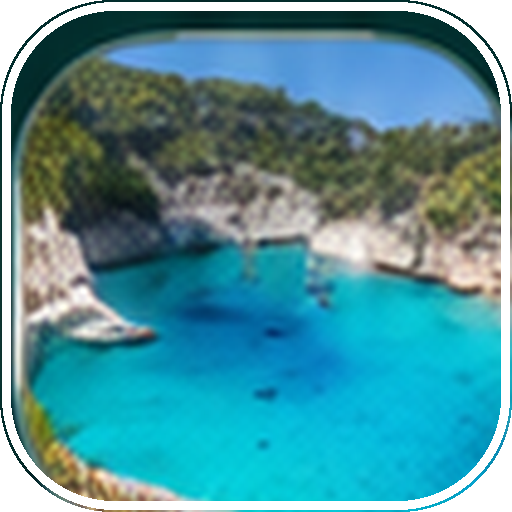
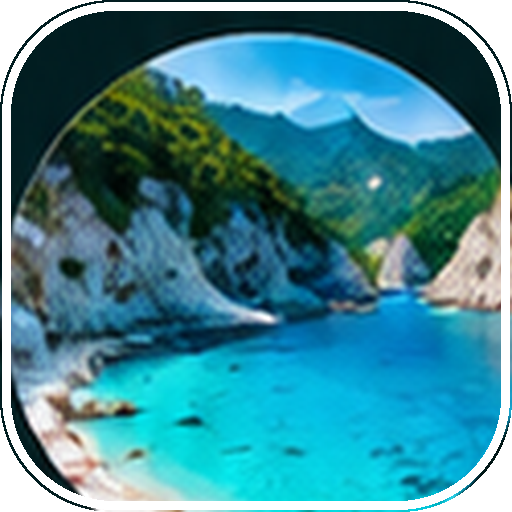
Add files via upload

diff --git a/app.js b/app.js
@@ -1,22 +1,64 @@
 
 const $=id=>document.getElementById(id);
 const BASE={lat:40.6096,lon:9.7514,label:"La Caletta"};
-let state={mode:"balanced",origin:BASE,originType:"base",wind:"Mare calmo",autoWind:"Mare calmo",weatherIcon:"🌤️",weatherLabel:"Meteo",temp:null,windKmh:null,driveMax:120,walkMax:20,sort:"ai",query:"",quietOnly:false,localOnly:false,withinDriveOnly:true,favoritesOnly:false,hideVisited:false};
+let state={mode:"balanced",origin:BASE,originType:"base",wind:"Mare calmo",autoWind:"Mare calmo",weatherIcon:"🌤️",weatherLabel:"Meteo",weatherCode:null,temp:null,windKmh:null,driveMax:120,walkMax:20,sort:"ai",query:"",quietOnly:false,localOnly:false,meteoAiOnly:false,withinDriveOnly:true,favoritesOnly:false,hideVisited:false};
 let marine={wave:null,water:null};
 const icon={"Snorkeling elite":"🤿","Snorkeling PRO":"🐠","Calette nascoste":"🏝️","Spiagge top":"🏖️","Panorami/foto":"📸","Escursioni/gommoni":"🚤","Cibo/pesce":"🍝","Parcheggi/accessi":"🅿️","Spiagge famose":"⭐","Spiagge famose Nord":"💎","Spiagge famose Sud":"🌅","Iconiche Golfo Orosei":"🌊","Spiagge Sardegna Nord-Ovest":"🧭","Spiagge Sardegna Nord":"🧭","Spiagge Sardegna Ovest":"🌊","Spiagge Sardegna Sud-Ovest":"🌅","Spiagge Sardegna Sud":"🌞","Spiagge Sardegna Sud-Est":"🌞","Spiagge Sardegna Est":"🌊"};
 const mapsIcon='<svg class="mapicon" viewBox="0 0 24 24"><path fill="#34a853" d="M12 2C8.1 2 5 5.1 5 9c0 5.2 7 13 7 13s7-7.8 7-13c0-3.9-3.1-7-7-7z"/><circle fill="#fff" cx="12" cy="9" r="2.5"/></svg>';
 const wazeIcon='<svg class="mapicon" viewBox="0 0 24 24"><path fill="#33ccff" d="M20 11.5c0-4.1-3.6-7.5-8-7.5s-8 3.4-8 7.5c0 1.5.5 2.9 1.4 4.1L3 18h3.6c1.4.7 3.2 1 5.4 1 4.4 0 8-3.4 8-7.5z"/><circle cx="9" cy="11" r="1"/><circle cx="15" cy="11" r="1"/><path d="M9 15c2 1 4 1 6 0" stroke="#111" fill="none" stroke-width="1.5"/></svg>';
-function loadLocal(){try{const s=JSON.parse(localStorage.getItem("sardegna-v10")||"{}");PLACES.forEach(p=>{if(s.favorites?.[p.id])p.favorite=true;if(s.visited?.[p.id])p.visited=true;if(s.notes?.[p.id])p.personalNote=s.notes[p.id]})}catch(e){}}
-function saveLocal(){const favorites={},visited={},notes={};PLACES.forEach(p=>{if(p.favorite)favorites[p.id]=true;if(p.visited)visited[p.id]=true;if(p.personalNote)notes[p.id]=p.personalNote});localStorage.setItem("sardegna-v10",JSON.stringify({favorites,visited,notes}))}
+function loadLocal(){try{const s=JSON.parse(localStorage.getItem("sardegna-v17")||localStorage.getItem("sardegna-v16")||localStorage.getItem("sardegna-v10")||"{}");PLACES.forEach(p=>{if(s.favorites?.[p.id])p.favorite=true;if(s.visited?.[p.id])p.visited=true;if(s.notes?.[p.id])p.personalNote=s.notes[p.id]})}catch(e){}}
+function saveLocal(){const favorites={},visited={},notes={};PLACES.forEach(p=>{if(p.favorite)favorites[p.id]=true;if(p.visited)visited[p.id]=true;if(p.personalNote)notes[p.id]=p.personalNote});localStorage.setItem("sardegna-v17",JSON.stringify({favorites,visited,notes}))}
 function hav(a,b,c,d){const R=6371,rad=x=>x*Math.PI/180;const dp=rad(c-a),dl=rad(d-b);const q=Math.sin(dp/2)**2+Math.cos(rad(a))*Math.cos(rad(c))*Math.sin(dl/2)**2;return R*2*Math.atan2(Math.sqrt(q),Math.sqrt(1-q))}
 function dist(p){return hav(state.origin.lat,state.origin.lon,p.lat,p.lon)}
 function drive(p){return Math.round((dist(p)*1.38/62)*60+8)}
 function seaScore(p){let s=10;if(marine.wave!=null){if(marine.wave>1.2)s-=3;else if(marine.wave>.7)s-=1.5}if((p.windAvoid||"").includes(state.wind))s-=2;if((p.windOK||"").includes(state.wind))s+=.8;return Math.max(0,Math.min(10,Math.round(s*10)/10))}
 function textScore(p,q){if(!q)return 0;q=q.toLowerCase();const hay=`${p.name} ${p.zone} ${p.category} ${p.fauna} ${p.notes} ${(p.tags||[]).join(" ")}`.toLowerCase();let s=0;q.split(/\s+/).filter(Boolean).forEach(w=>{if(hay.includes(w))s+=8;if(p.name.toLowerCase().includes(w))s+=16});if(q.includes("liberotto")&&p.name.toLowerCase().includes("liberotto"))s+=60;if(q.includes("polp")&&hay.includes("polp"))s+=20;if(q.includes("tramonto")&&hay.includes("tramonto"))s+=16;return s}
+function meteoAiScore(p){
+  let s=0;
+  // tempo stabile/sole: meglio; pioggia/temporale: peggio
+  const code=state.weatherCode;
+  if(code===0)s+=16;
+  else if([1,2].includes(code))s+=12;
+  else if(code===3)s+=5;
+  else if([45,48].includes(code))s-=3;
+  else if([51,53,55,56,57,61,63,65,66,67,80,81,82].includes(code))s-=18;
+  else if([95,96,99].includes(code))s-=30;
+
+  // poco vento meglio per mare calmo/snorkeling
+  const wind=state.windKmh;
+  if(wind!=null){
+    if(wind<=8)s+=14;
+    else if(wind<=15)s+=8;
+    else if(wind<=22)s-=4;
+    else s-=14;
+  }
+
+  // onde basse meglio
+  if(marine.wave!=null){
+    if(marine.wave<=0.3)s+=12;
+    else if(marine.wave<=0.7)s+=6;
+    else if(marine.wave<=1.2)s-=6;
+    else s-=18;
+  }
+
+  // esposizione vento del singolo posto
+  if((p.windOK||"").includes(state.wind))s+=8;
+  if((p.windAvoid||"").includes(state.wind))s-=18;
+
+  return s;
+}
+function meteoAiLabel(p){
+  const s=meteoAiScore(p);
+  if(s>=32)return "☀️ Meteo top";
+  if(s>=18)return "🌤️ Meteo buono";
+  if(s>=5)return "⛅ Meteo ok";
+  if(s>=-8)return "🌬️ Da valutare";
+  return "⚠️ Meteo scarso";
+}
 function isLocal(p){return p.level==="L1 Local" || String(p.tags||"").includes("local") || String(p.tags||"").includes("segreta") || String(p.category||"").toLowerCase().includes("nascost");}
-function score(p){let s=p.wow*1.6+p.waterColor*.7+p.snorkeling*.7+seaScore(p)*1.2+textScore(p,state.query);if(state.mode==="wow")s+=p.wow*1.8+p.waterColor*1.4;if(state.mode==="snorkel")s+=p.snorkeling*2.4+(String(p.tags||"").includes("snorkeling")?8:0);if(state.mode==="balanced")s+=p.wow+p.snorkeling*.8-(drive(p)/20)-(p.walkMin/8);if((p.windOK||"").includes(state.wind))s+=6;if((p.windAvoid||"").includes(state.wind))s-=12;s+=(drive(p)<=state.driveMax)?8:-(drive(p)-state.driveMax)/2;s+=(p.walkMin<=state.walkMax)?6:-8;if(state.quietOnly)s+=(p.crowdTarget==="Tranquillo"?10:-4);if(state.localOnly&&!isLocal(p))s-=1000;if(state.withinDriveOnly&&drive(p)>state.driveMax)s-=1000;if(state.favoritesOnly&&!p.favorite)s-=1000;if(state.hideVisited&&p.visited)s-=1000;return Math.round(s*10)/10}
+function score(p){let s=p.wow*1.6+p.waterColor*.7+p.snorkeling*.7+seaScore(p)*1.2+textScore(p,state.query);if(state.mode==="wow")s+=p.wow*1.8+p.waterColor*1.4;if(state.mode==="snorkel")s+=p.snorkeling*2.4+(String(p.tags||"").includes("snorkeling")?8:0);if(state.mode==="local"){s+=isLocal(p)?80:-1000;}if(state.mode==="balanced")s+=p.wow+p.snorkeling*.8-(drive(p)/20)-(p.walkMin/8);if((p.windOK||"").includes(state.wind))s+=6;if((p.windAvoid||"").includes(state.wind))s-=12;s+=(drive(p)<=state.driveMax)?8:-(drive(p)-state.driveMax)/2;s+=(p.walkMin<=state.walkMax)?6:-8;if(state.quietOnly)s+=(p.crowdTarget==="Tranquillo"?10:-4);if(state.meteoAiOnly)s+=meteoAiScore(p)*1.8;if(state.localOnly&&!isLocal(p))s-=1000;if(state.withinDriveOnly&&drive(p)>state.driveMax)s-=1000;if(state.favoritesOnly&&!p.favorite)s-=1000;if(state.hideVisited&&p.visited)s-=1000;return Math.round(s*10)/10}
 function results(){let arr=PLACES.map(p=>({...p,aiScore:score(p),distanceKm:dist(p),driveMin:drive(p),seaScore:seaScore(p)})).filter(p=>p.aiScore>-50);if(state.sort==="distance")arr.sort((a,b)=>a.distanceKm-b.distanceKm||b.aiScore-a.aiScore);else if(state.sort==="rating")arr.sort((a,b)=>b.wow-a.wow||b.aiScore-a.aiScore);else arr.sort((a,b)=>b.aiScore-a.aiScore||a.distanceKm-b.distanceKm);return arr}
-function why(p){const bits=[];if(state.mode==="snorkel"&&p.snorkeling>=7)bits.push("buono per snorkeling");if(state.mode==="wow"&&p.wow>=9)bits.push("mare wow");if((p.windOK||"").includes(state.wind))bits.push("vento favorevole");if(drive(p)<=state.driveMax)bits.push("entro tempo auto");if(p.walkMin<=state.walkMax)bits.push("camminata ok");if(p.name.toLowerCase().includes("liberotto"))bits.push("ottimi scogli laterali");return bits.slice(0,4).join(" · ")||"buon equilibrio generale"}
+function why(p){const bits=[];if(state.mode==="snorkel"&&p.snorkeling>=7)bits.push("buono per snorkeling");if(state.mode==="wow"&&p.wow>=9)bits.push("mare wow");if((p.windOK||"").includes(state.wind))bits.push("vento favorevole");if(drive(p)<=state.driveMax)bits.push("entro tempo auto");if(p.walkMin<=state.walkMax)bits.push("camminata ok");if(p.name.toLowerCase().includes("liberotto"))bits.push("ottimi scogli laterali");if(state.meteoAiOnly&&meteoAiScore(p)>18)bits.push("meteo favorevole");return bits.slice(0,4).join(" · ")||"buon equilibrio generale"}
 function gmaps(p){return `https://www.google.com/maps/dir/?api=1&destination=${encodeURIComponent(p.lat+","+p.lon)}&travelmode=driving`}
 function waze(p){return `https://waze.com/ul?ll=${p.lat},${p.lon}&navigate=yes`}
 function photoUrl(p){return `https://www.google.com/search?tbm=isch&q=${encodeURIComponent(p.name+" "+p.zone+" Sardegna spiaggia")}`}
@@ -26,7 +68,18 @@ function makeIcon(p){return L.divIcon({className:"custom-marker",html:`<div styl
 let map,layer,userMarker;
 function initMap(){map=L.map("map",{zoomControl:false}).setView([40.45,9.45],8);L.control.zoom({position:"bottomright"}).addTo(map);L.tileLayer("https://{s}.tile.openstreetmap.org/{z}/{x}/{y}.png",{maxZoom:19,attribution:"&copy; OpenStreetMap"}).addTo(map);layer=L.layerGroup().addTo(map)}
 function renderMarkers(list){layer.clearLayers();list.slice(0,160).forEach(p=>L.marker([p.lat,p.lon],{icon:makeIcon(p)}).addTo(layer).bindPopup(`<b>${icon[p.category]||"📍"} ${p.name}</b><br>${p.driveMin} min · AI ${p.aiScore}<br><button onclick="openDetail('${p.id}')">Apri</button>`))}
-function render(){const list=results();$("totalPlaces").textContent=PLACES.length;$("resultsTitle").textContent=`Risultati · ${list.length}`;renderMarkers(list);$("results").innerHTML=list.slice(0,60).map((p,i)=>`<article class="card"><h4>${i+1}. ${icon[p.category]||"📍"} ${p.name}</h4><div class="meta">${p.zone} · ${p.category}<br>${p.distanceKm.toFixed(1)} km · 🚗 ${p.driveMin} min · 🚶 ${p.walkMin} min</div><div class="score"><span class="pill gold">AI ${p.aiScore}</span><span class="pill">🤿 ${p.snorkeling}/10</span><span class="pill">WOW ${p.wow}/10</span><span class="pill">mare ${p.seaScore}/10</span></div><div class="meta weather-mini">${weatherMini()}</div><div class="meta">Perché: <b>${why(p)}</b></div><div class="actions"><button onclick="openDetail('${p.id}')">Scheda</button><a class="ghost" href="${gmaps(p)}" target="_blank">${mapsIcon}Maps</a><a class="ghost" href="${waze(p)}" target="_blank">${wazeIcon}Waze</a><a class="ghost" href="${photoUrl(p)}" target="_blank">📷 Foto</a><button class="ghost" onclick="toggleFavorite('${p.id}')">${p.favorite?'★':'☆'} Preferito</button></div></article>`).join("")}
+function renderFavorites(){
+  const el=document.getElementById("favoritesList");
+  if(!el)return;
+  const favs=PLACES.filter(p=>p.favorite).map(p=>({...p,aiScore:score(p),distanceKm:dist(p),driveMin:drive(p),seaScore:seaScore(p)}));
+  if(!favs.length){
+    el.innerHTML='<div class="empty-state">Non hai ancora preferiti. Premi ☆ Preferito su una spiaggia per salvarla qui.</div>';
+    return;
+  }
+  favs.sort((a,b)=>b.aiScore-a.aiScore);
+  el.innerHTML=favs.map(p=>`<article class="card"><h4>${icon[p.category]||"📍"} ${p.name}</h4><div class="meta">${p.zone}<br>${p.distanceKm.toFixed(1)} km · 🚗 ${p.driveMin} min · 🚶 ${p.walkMin} min</div><div class="score"><span class="pill gold">AI ${p.aiScore}</span><span class="pill">🤿 ${p.snorkeling}/10</span><span class="pill">WOW ${p.wow}/10</span></div><div class="actions"><button onclick="openDetail('${p.id}')">Scheda</button><a class="ghost" href="${gmaps(p)}" target="_blank">${mapsIcon}Maps</a><a class="ghost" href="${waze(p)}" target="_blank">${wazeIcon}Waze</a><a class="ghost" href="${photoUrl(p)}" target="_blank">📷 Foto</a><button class="ghost" onclick="toggleFavorite('${p.id}')">★ Rimuovi</button></div></article>`).join("");
+}
+function render(){const list=results();$("totalPlaces").textContent=PLACES.length;$("resultsTitle").textContent=`Risultati · ${list.length}`;renderMarkers(list);$("results").innerHTML=list.slice(0,60).map((p,i)=>`<article class="card"><h4>${i+1}. ${icon[p.category]||"📍"} ${p.name}</h4><div class="meta">${p.zone} · ${p.category}<br>${p.distanceKm.toFixed(1)} km · 🚗 ${p.driveMin} min · 🚶 ${p.walkMin} min</div><div class="score"><span class="pill gold">AI ${p.aiScore}</span><span class="pill">🤿 ${p.snorkeling}/10</span><span class="pill">WOW ${p.wow}/10</span><span class="pill">mare ${p.seaScore}/10</span><span class="pill">${meteoAiLabel(p)}</span></div><div class="meta weather-mini">${weatherMini()}</div><div class="meta">Perché: <b>${why(p)}</b></div><div class="actions"><button onclick="openDetail('${p.id}')">Scheda</button><a class="ghost" href="${gmaps(p)}" target="_blank">${mapsIcon}Maps</a><a class="ghost" href="${waze(p)}" target="_blank">${wazeIcon}Waze</a><a class="ghost" href="${photoUrl(p)}" target="_blank">📷 Foto</a><button class="ghost" onclick="toggleFavorite('${p.id}')">${p.favorite?'★':'☆'} Preferito</button></div></article>`).join("");renderFavorites()}
 function today(){const p=results()[0];if(!p)return;$("todayChoice").classList.remove("hidden");$("todayChoice").innerHTML=`<h3>🏆 Oggi ti porterei a: ${p.name}</h3><div class="score"><span class="pill gold">AI ${p.aiScore}</span><span class="pill">🚗 ${p.driveMin} min</span><span class="pill">🤿 ${p.snorkeling}/10</span><span class="pill">WOW ${p.wow}/10</span></div><p class="meta">${why(p)}</p><div class="actions"><button onclick="openDetail('${p.id}')">Scheda</button><a class="primary" href="${gmaps(p)}" target="_blank">${mapsIcon}Portami lì</a><a class="ghost" href="${waze(p)}" target="_blank">${wazeIcon}Waze</a><a class="ghost" href="${photoUrl(p)}" target="_blank">📷 Foto</a></div>`}
 function openDetail(id){const p=PLACES.find(x=>x.id===id);if(!p)return;fetchWeather(p.lat,p.lon,p.name,false);$("placeDetail").innerHTML=`<div><h2>${icon[p.category]||"📍"} ${p.name}</h2><p class="meta">${p.zone}<br>${dist(p).toFixed(1)} km · 🚗 ${drive(p)} min · 🚶 ${p.walkMin} min</p><div class="score"><span class="pill gold">AI ${score(p)}</span><span class="pill">🤿 ${p.snorkeling}/10</span><span class="pill">WOW ${p.wow}/10</span></div><div class="detail-grid"><div class="detail-box"><b>Perché</b>${why(p)}</div><div class="detail-box"><b>Fauna</b>${p.fauna||"-"}</div><div class="detail-box"><b>Vento OK</b>${p.windOK||"-"}</div><div class="detail-box"><b>Evita con</b>${p.windAvoid||"-"}</div><div class="detail-box"><b>Ingresso</b>${p.entryTip||"-"}</div><div class="detail-box"><b>Parcheggio</b>${p.parking||"-"}</div></div><p>${p.notes||""}</p><textarea id="noteBox" placeholder="Nota personale / diario...">${p.personalNote||""}</textarea><div class="actions" style="margin-top:12px"><a class="primary" href="${gmaps(p)}" target="_blank">${mapsIcon}Google Maps</a><a class="ghost" href="${waze(p)}" target="_blank">${wazeIcon}Waze</a><a class="ghost" href="${photoUrl(p)}" target="_blank">📷 Foto</a><button class="ghost" onclick="toggleFavorite('${p.id}')">${p.favorite?'★ Preferito':'☆ Preferito'}</button><button class="ghost" onclick="toggleVisited('${p.id}')">${p.visited?'Visitato ✓':'Segna visitato'}</button><button onclick="saveNote('${p.id}')">Salva nota</button></div></div>`;$("placeDialog").showModal()}
 window.openDetail=openDetail;function toggleFavorite(id){const p=PLACES.find(x=>x.id===id);if(p){p.favorite=!p.favorite;saveLocal();render()}}function toggleVisited(id){const p=PLACES.find(x=>x.id===id);if(p){p.visited=!p.visited;saveLocal();render()}}function saveNote(id){const p=PLACES.find(x=>x.id===id);if(p){p.personalNote=$("noteBox").value;saveLocal();render()}}window.toggleFavorite=toggleFavorite;window.toggleVisited=toggleVisited;window.saveNote=saveNote;
@@ -47,10 +100,10 @@ function weatherLabelFromCode(code){
 }
 function windName(deg,speed){if(speed>=25)return"Vento forte";if(deg==null)return"Mare calmo";let d=["N","NE","E","SE","S","SW","W","NW"][Math.round(deg/45)%8];if(d==="NW")return speed>=15?"Maestrale forte":"Maestrale leggero";if(d==="SE")return speed>=15?"Scirocco forte":"Scirocco leggero";if(d==="E")return"Levante forte";if(d==="W")return"Ponente leggero";return speed<8?"Mare calmo":"Vento forte"}
 function windDir(deg){if(deg==null)return"-";return["N","NE","E","SE","S","SW","W","NW"][Math.round(deg/45)%8]}
-async function fetchWeather(lat,lon,label,update){try{let r=await fetch(`https://api.open-meteo.com/v1/forecast?latitude=${lat}&longitude=${lon}&current=temperature_2m,wind_speed_10m,wind_direction_10m,weather_code&forecast_days=1&timezone=auto`);let d=await r.json();let c=d.current||{};let sp=Math.round(c.wind_speed_10m||0);let wl=weatherLabelFromCode(c.weather_code);state.weatherIcon=wl.icon;state.weatherLabel=wl.label;state.temp=c.temperature_2m;state.windKmh=sp;state.autoWind=windName(c.wind_direction_10m,sp);state.wind=state.autoWind;$("weatherText").innerHTML=`<b>${label}</b>: ${wl.icon} ${wl.label} · ${Math.round(c.temperature_2m)}°C · vento ${sp} km/h da ${windDir(c.wind_direction_10m)} · ${state.autoWind}`;fetchMarine(lat,lon)}catch(e){$("weatherText").textContent="Meteo non disponibile"}}
+async function fetchWeather(lat,lon,label,update){try{let r=await fetch(`https://api.open-meteo.com/v1/forecast?latitude=${lat}&longitude=${lon}&current=temperature_2m,wind_speed_10m,wind_direction_10m,weather_code&forecast_days=1&timezone=auto`);let d=await r.json();let c=d.current||{};let sp=Math.round(c.wind_speed_10m||0);let wl=weatherLabelFromCode(c.weather_code);state.weatherIcon=wl.icon;state.weatherLabel=wl.label;state.weatherCode=c.weather_code;state.temp=c.temperature_2m;state.windKmh=sp;state.autoWind=windName(c.wind_direction_10m,sp);state.wind=state.autoWind;$("weatherText").innerHTML=`<b>${label}</b>: ${wl.icon} ${wl.label} · ${Math.round(c.temperature_2m)}°C · vento ${sp} km/h da ${windDir(c.wind_direction_10m)} · ${state.autoWind}`;fetchMarine(lat,lon)}catch(e){$("weatherText").textContent="Meteo non disponibile"}}
 async function fetchMarine(lat,lon){try{let r=await fetch(`https://marine-api.open-meteo.com/v1/marine?latitude=${lat}&longitude=${lon}&current=wave_height,sea_surface_temperature&forecast_days=1&timezone=auto`);let d=await r.json();let c=d.current||{};marine.wave=c.wave_height??null;marine.water=c.sea_surface_temperature??null;$("marineText").innerHTML=`Mare: ${c.wave_height!=null?c.wave_height+" m onde":"onde n/d"}${c.sea_surface_temperature!=null?" · acqua "+Math.round(c.sea_surface_temperature)+"°C":""}`;render()}catch(e){$("marineText").textContent="Meteo marino non disponibile";render()}}
 function chatSend(){const t=$("chatInput").value.trim();if(!t)return;$("chatLog").innerHTML+=`<div class="user">${t}</div>`;$("chatInput").value="";const s=t.toLowerCase();state.query=s;$("textSearch").value=s;if(s.match(/snork|pesci|polp|maschera/))setMode("snorkel");else if(s.match(/wow|bello|turchese|cristall/))setMode("wow");else setMode("balanced");const mins=s.match(/(\d+)\s*(min|minuti|ora|ore|h)/);if(mins){let n=Number(mins[1]);if(s.includes("ora")||s.includes("ore")||s.includes("h"))n*=60;state.driveMax=n;$("driveMax").value=Math.min(260,n);$("driveLabel").textContent=n+" min"}const top=results().slice(0,3);$("chatLog").innerHTML+=`<div class="bot">Ok, ti ho aggiornato la ricerca. Ti direi:<br><br>${top.map((p,i)=>`${i+1}. <b>${p.name}</b> · 🚗 ${p.driveMin} min · 🤿 ${p.snorkeling}/10 · WOW ${p.wow}/10<br><small>${why(p)}</small>`).join("<br><br>")}<br><br>Puoi continuare con “più vicino”, “meno camminata”, “più mare wow”.</div>`;$("chatLog").scrollTop=$("chatLog").scrollHeight;render()}
-function bind(){document.querySelectorAll(".mode").forEach(b=>b.addEventListener("click",()=>setMode(b.dataset.mode)));document.querySelectorAll(".bottomnav button[data-mode]").forEach(b=>b.addEventListener("click",()=>{setMode(b.dataset.mode);window.scrollTo({top:0,behavior:"smooth"})}));$("navChat").addEventListener("click",()=>document.querySelector(".assistant-card").scrollIntoView({behavior:"smooth"}));$("useBase").addEventListener("click",()=>setOrigin("base"));$("useGps").addEventListener("click",()=>setOrigin("gps"));$("useManual").addEventListener("click",()=>setOrigin("manual"));$("originPreset").addEventListener("change",applyPreset);$("manualCoords").addEventListener("change",applyCoords);$("driveMax").addEventListener("input",()=>{state.driveMax=Number($("driveMax").value);$("driveLabel").textContent=state.driveMax+" min";render()});$("walkMax").addEventListener("input",()=>{state.walkMax=Number($("walkMax").value);$("walkLabel").textContent=state.walkMax+" min";render()});$("textSearch").addEventListener("input",()=>{state.query=$("textSearch").value;render()});$("sortMode").addEventListener("input",()=>{state.sort=$("sortMode").value;render()});["quietOnly","localOnly","withinDriveOnly","favoritesOnly","hideVisited"].forEach(id=>$(id).addEventListener("change",()=>{state[id]=$(id).checked;render()}));$("refreshWeather").addEventListener("click",()=>fetchWeather(state.origin.lat,state.origin.lon,state.origin.label||"partenza",true));$("todayBtn").addEventListener("click",today);$("closeDialog").addEventListener("click",()=>$("placeDialog").close());$("chatSend").addEventListener("click",chatSend);$("chatInput").addEventListener("keydown",e=>{if(e.key==="Enter")chatSend()})}
+function bind(){document.querySelectorAll(".mode").forEach(b=>b.addEventListener("click",()=>setMode(b.dataset.mode)));document.querySelectorAll(".bottomnav button[data-mode]").forEach(b=>b.addEventListener("click",()=>{setMode(b.dataset.mode);window.scrollTo({top:0,behavior:"smooth"})}));$("navFavorites")?.addEventListener("click",()=>document.querySelector(".favorites-card")?.scrollIntoView({behavior:"smooth"}));$("showFavoritesBtn")?.addEventListener("click",()=>renderFavorites());$("navChat").addEventListener("click",()=>document.querySelector(".assistant-card").scrollIntoView({behavior:"smooth"}));$("useBase").addEventListener("click",()=>setOrigin("base"));$("useGps").addEventListener("click",()=>setOrigin("gps"));$("useManual").addEventListener("click",()=>setOrigin("manual"));$("originPreset").addEventListener("change",applyPreset);$("manualCoords").addEventListener("change",applyCoords);$("driveMax").addEventListener("input",()=>{state.driveMax=Number($("driveMax").value);$("driveLabel").textContent=state.driveMax+" min";render()});$("walkMax").addEventListener("input",()=>{state.walkMax=Number($("walkMax").value);$("walkLabel").textContent=state.walkMax+" min";render()});$("textSearch").addEventListener("input",()=>{state.query=$("textSearch").value;render()});$("sortMode").addEventListener("input",()=>{state.sort=$("sortMode").value;render()});["quietOnly","localOnly","meteoAiOnly","withinDriveOnly","favoritesOnly","hideVisited"].forEach(id=>$(id).addEventListener("change",()=>{state[id]=$(id).checked;render()}));$("refreshWeather").addEventListener("click",()=>fetchWeather(state.origin.lat,state.origin.lon,state.origin.label||"partenza",true));$("todayBtn").addEventListener("click",today);$("closeDialog").addEventListener("click",()=>$("placeDialog").close());$("chatSend").addEventListener("click",chatSend);$("chatInput").addEventListener("keydown",e=>{if(e.key==="Enter")chatSend()})}
 let deferredPrompt;window.addEventListener("beforeinstallprompt",e=>{e.preventDefault();deferredPrompt=e;$("installBtn").classList.remove("hidden")});$("installBtn")?.addEventListener("click",async()=>{if(deferredPrompt){deferredPrompt.prompt();deferredPrompt=null;$("installBtn").classList.add("hidden")}});
 if("serviceWorker"in navigator)window.addEventListener("load",()=>navigator.serviceWorker.register("sw.js"));
 loadLocal();initMap();bind();fetchWeather(BASE.lat,BASE.lon,"La Caletta",true);

diff --git a/styles.css b/styles.css
@@ -155,11 +155,21 @@ dialog{width:min(820px,92vw);border:1px solid rgba(255,255,255,.18);border-radiu
   color:#e0f7ff;
 }
 
-/* v15 recovery: safe iPhone fullscreen */
+/* v16 real fix */
+.mode-grid{grid-template-columns:repeat(4,1fr)}
+.compact-cards{margin-top:14px}
+.empty-state{
+  grid-column:1/-1;
+  color:var(--muted);
+  background:rgba(255,255,255,.07);
+  border:1px solid rgba(255,255,255,.12);
+  border-radius:22px;
+  padding:16px;
+}
+.bottomnav{grid-template-columns:repeat(5,1fr)}
 html{min-height:100%;background:#04110f}
 body{
   min-height:100dvh;
-  padding-top:0;
   padding-left:env(safe-area-inset-left);
   padding-right:env(safe-area-inset-right);
   -webkit-tap-highlight-color:transparent;
@@ -170,9 +180,6 @@ body{
   padding-right:calc(14px + env(safe-area-inset-right));
   min-height:calc(64px + env(safe-area-inset-top));
 }
-.brand img{width:40px;height:40px;border-radius:14px}
-.topbar h1{font-size:19px}
-.topbar p{font-size:11px}
 main{
   padding-left:calc(12px + env(safe-area-inset-left));
   padding-right:calc(12px + env(safe-area-inset-right));
@@ -182,13 +189,17 @@ main{
   padding-left:calc(8px + env(safe-area-inset-left));
   padding-right:calc(8px + env(safe-area-inset-right));
 }
-dialog{
-  max-height:calc(100dvh - env(safe-area-inset-top) - env(safe-area-inset-bottom) - 28px);
-  overflow:auto;
-}
+.brand img{object-fit:cover}
 @supports(height:100dvh){.map-wrap{height:46dvh}}
 @media(max-width:760px){
+  .mode-grid{grid-template-columns:repeat(2,1fr)}
   body{padding-bottom:calc(92px + env(safe-area-inset-bottom))}
   .bottomnav button{min-height:50px}
 }
-@media (display-mode: standalone){.topbar{background:rgba(4,17,15,.50)}}
+
+/* v17 Meteo AI */
+.mini-filters label:has(#meteoAiOnly:checked){
+  background:linear-gradient(135deg,rgba(253,230,138,.20),rgba(125,211,252,.14));
+  border-color:rgba(253,230,138,.42);
+  color:#fff8d6;
+}

diff --git a/index.html b/index.html
@@ -7,19 +7,19 @@
   <meta name="apple-mobile-web-app-capable" content="yes" />
   <meta name="apple-mobile-web-app-status-bar-style" content="black-translucent" />
   <meta name="apple-mobile-web-app-title" content="Sardegna Explorer" />
-  <title>Sardegna Explorer v15</title>
+  <title>Sardegna Explorer v17</title>
   <link rel="manifest" href="manifest.webmanifest" />
-  <link rel="apple-touch-icon" href="icons/icon-192.png?v=15" />
+  <link rel="apple-touch-icon" href="icons/icon-180.png" />
   <link rel="stylesheet" href="https://unpkg.com/leaflet@1.9.4/dist/leaflet.css" crossorigin="" />
   <link rel="stylesheet" href="styles.css" />
 </head>
 <body>
 <header class="topbar">
   <div class="brand">
-    <img src="icons/icon-192.png?v=15" alt="" />
+    <img src="icons/icon-192.png" alt="" />
     <div>
       <h1>Sardegna Explorer</h1>
-      <p>v15 · Recovery stabile</p>
+      <p>v17 · Meteo AI</p>
     </div>
   </div>
   <button id="installBtn" class="ghost hidden">Installa</button>
@@ -68,6 +68,7 @@
       <button class="mode active" data-mode="balanced">⚖️<b>Bilanciato</b><span>bello, comodo, sensato oggi</span></button>
       <button class="mode" data-mode="wow">🏖️<b>Spiagge wow</b><span>mare più bello possibile</span></button>
       <button class="mode" data-mode="snorkel">🤿<b>Snorkeling</b><span>fondali, scogli, pesci</span></button>
+      <button class="mode" data-mode="local">✅<b>Solo local</b><span>posti segreti/local</span></button>
     </div>
 
     <div class="slider-card">
@@ -98,7 +99,7 @@
     <details class="small-advanced">
       <summary>Altri filtri</summary>
       <div class="mini-filters">
-        <label><input id="quietOnly" type="checkbox" /> più tranquilla</label><label><input id="localOnly" type="checkbox" /> solo local</label>
+        <label><input id="quietOnly" type="checkbox" /> più tranquilla</label><label><input id="localOnly" type="checkbox" /> solo local</label><label><input id="meteoAiOnly" type="checkbox" /> meteo AI</label>
         <label><input id="withinDriveOnly" type="checkbox" checked /> entro tempo auto</label>
         <label><input id="favoritesOnly" type="checkbox" /> preferiti</label>
         <label><input id="hideVisited" type="checkbox" /> nascondi visitati</label>
@@ -129,6 +130,16 @@
     <div id="results" class="cards"></div>
   </section>
 
+
+  <section class="panel favorites-card">
+    <div class="section-head">
+      <h3>⭐ Preferiti</h3>
+      <button id="showFavoritesBtn" class="ghost">Aggiorna preferiti</button>
+    </div>
+    <p class="muted">Le spiagge salvate con ☆ Preferito finiscono qui.</p>
+    <div id="favoritesList" class="cards compact-cards"></div>
+  </section>
+
   <section class="panel assistant-card">
     <h3>💬 Assistente AI spiagge</h3>
     <p class="muted">Qui puoi scrivere come faresti con me. È separato dalla ricerca principale.</p>
@@ -151,7 +162,7 @@
   <button data-mode="balanced">⚖️<span>Bilanciato</span></button>
   <button data-mode="wow">🏖️<span>Wow</span></button>
   <button data-mode="snorkel">🤿<span>Snorkel</span></button>
-  <button id="navChat">💬<span>AI</span></button>
+  <button id="navFavorites">⭐<span>Preferiti</span></button><button id="navChat">💬<span>AI</span></button>
 </nav>
 
 <script src="https://unpkg.com/leaflet@1.9.4/dist/leaflet.js" crossorigin=""></script>

diff --git a/sw.js b/sw.js
@@ -1,5 +1,5 @@
-const CACHE="sardegna-explorer-v15";
-const ASSETS=["./","./index.html","./styles.css","./app.js","./data.js","./manifest.webmanifest","./icons/icon-192.png","./icons/icon-512.png"];
+const CACHE="sardegna-explorer-v17";
+const ASSETS=["./","./index.html","./styles.css","./app.js","./data.js","./manifest.webmanifest","./icons/icon-180.png","./icons/icon-192.png","./icons/icon-512.png"];
 self.addEventListener("install",e=>{self.skipWaiting();e.waitUntil(caches.open(CACHE).then(c=>c.addAll(ASSETS)))});
 self.addEventListener("activate",e=>{e.waitUntil(caches.keys().then(keys=>Promise.all(keys.map(k=>k===CACHE?null:caches.delete(k)))));self.clients.claim()});
 self.addEventListener("fetch",e=>{const url=new URL(e.request.url);if(url.hostname.includes("open-meteo.com"))return;e.respondWith(caches.match(e.request).then(cached=>cached||fetch(e.request).then(res=>{const copy=res.clone();caches.open(CACHE).then(c=>c.put(e.request,copy)).catch(()=>{});return res}).catch(()=>cached)))});

diff --git a/data.js b/data.js
@@ -14871,4 +14871,4 @@ window.PLACES = [
     ]
   }
 ];
-window.APP_META = {version:'15.0 Recovery Stable', updated:'2026-07-04', totalPlaces:332};
+window.APP_META = {version:'17.0 Meteo AI', updated:'2026-07-04', totalPlaces:332};